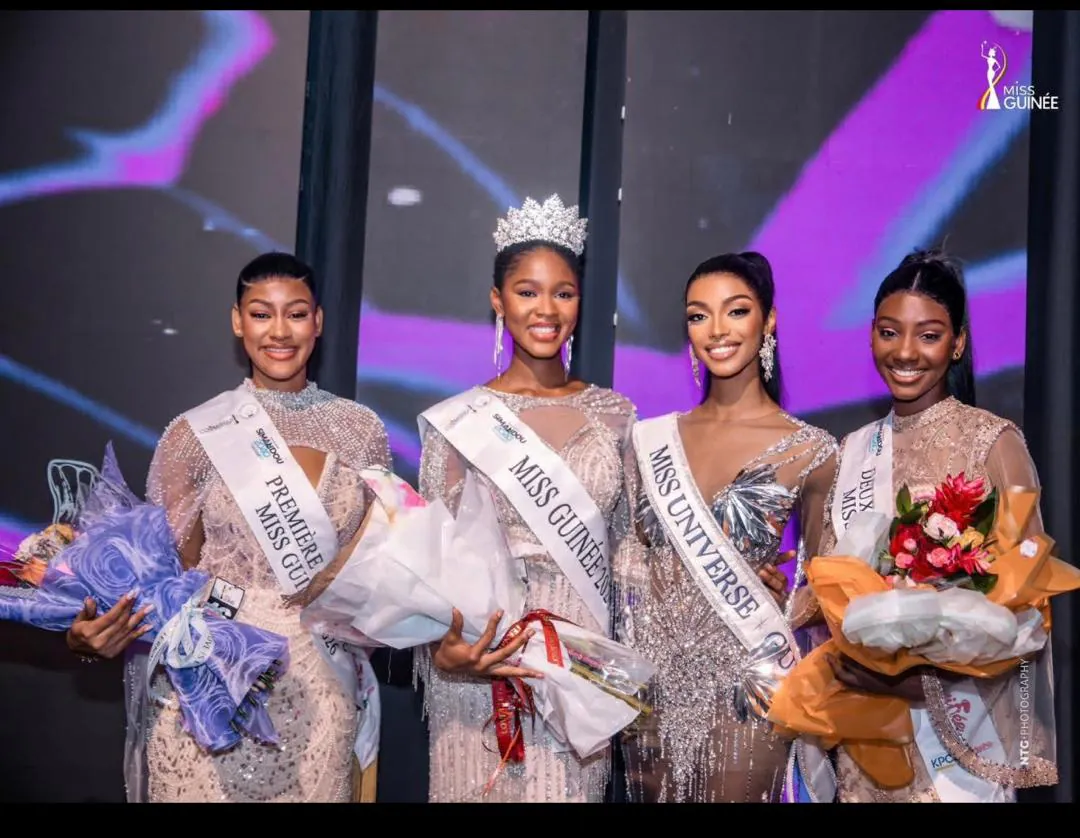
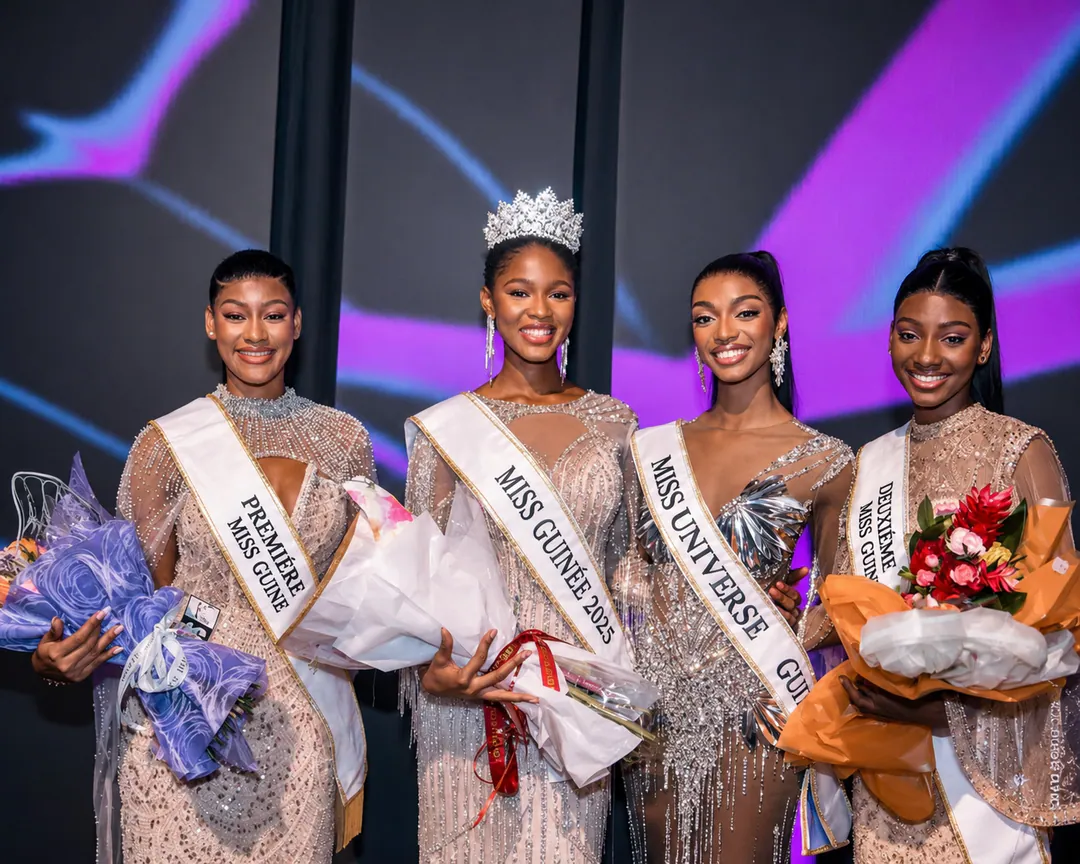
Photos dans la section Événements de l'accueil
Les trois images vont finalement aux cartes Mariages, Anniversaires et
Entreprises & réceptions, qui leur correspondent une à une — c'était la
lecture évidente, le dossier source portait d'ailleurs ce nom. La page
Services retrouve son état antérieur.

Deux photos remplacées par de meilleures versions :
- anniversaire : une vraie création de la boutique (roses, gypsophile,
  chocolats et coffret, photographiée en magasin) à la place d'une image
  de banque montrant un gâteau sans la moindre fleur ;
- Comité Miss Guinée : version plus nette, bouquets lisibles, et sans le
  filigrane du photographe présent sur la précédente.

Les cartes Événements passent de l'icône seule à une photo surmontée d'une
pastille, comme les tuiles de services. Vérifié : aucune image du site
n'apparaît deux fois, aucun débordement de 320 à 1440 px.

diff --git a/src/config.js b/src/config.js
@@ -67,9 +67,9 @@ export const PHOTOS = {
   comiteMissGuinee: responsivePhoto({
     nom: 'comite-miss-guinee',
     largeurs: [640, 1080],
-    alt: 'Les lauréates de Miss Guinée avec leurs bouquets Lizzirene Déco',
+    alt: 'Les lauréates de Miss Guinée 2025 avec leurs bouquets Lizzirene Déco',
     width: 1080,
-    height: 838,
+    height: 864,
     sizes: '(max-width: 900px) calc(100vw - 40px), 620px',
   }),
   clienteComblee: responsivePhoto({
@@ -149,34 +149,42 @@ export const SERVICE_THEME_PHOTOS = {
   }),
 }
 
-// Photos rattachées à une prestation précise, et à elle seule : chacune
-// n'illustre qu'un seul service, jamais un thème entier.
-const PHOTO_PRESTATION = (nom, alt, height) =>
+// Photos de la section Événements de l'accueil : une par carte, jamais
+// réutilisée ailleurs. Les cartes recadrent en 16/10, d'où des rapports
+// d'origine différents sans conséquence.
+const PHOTO_EVENEMENT = ({ nom, largeurs, alt, width, height }) =>
   responsivePhoto({
     nom,
-    largeurs: [480, 800, 1280],
+    largeurs,
     alt,
-    width: 1280,
+    width,
     height,
-    sizes: '(max-width: 720px) calc(100vw - 40px), (max-width: 1100px) 50vw, 33vw',
+    sizes:
+      '(max-width: 720px) calc(100vw - 40px), (max-width: 980px) 50vw, 33vw',
   })
 
-export const PHOTOS_PRESTATIONS = {
-  mariage: PHOTO_PRESTATION(
-    'prestation-mariage',
-    'Salle de réception de mariage dressée, tables fleuries et compositions pastel',
-    844,
-  ),
-  anniversaire: PHOTO_PRESTATION(
-    'prestation-anniversaire',
-    'Table d’anniversaire décorée avec gâteau, ballons et guirlande de fête',
-    853,
-  ),
-  conseilAmenagement: PHOTO_PRESTATION(
-    'prestation-conseil-amenagement',
-    'Bureau aménagé avec des compositions florales blanches et des plantes vertes',
-    720,
-  ),
+export const PHOTOS_EVENEMENTS = {
+  mariages: PHOTO_EVENEMENT({
+    nom: 'prestation-mariage',
+    largeurs: [480, 800, 1280],
+    alt: 'Salle de réception de mariage dressée, tables fleuries et compositions pastel',
+    width: 1280,
+    height: 844,
+  }),
+  anniversaires: PHOTO_EVENEMENT({
+    nom: 'prestation-anniversaire',
+    largeurs: [480, 810],
+    alt: "Bouquet d'anniversaire Lizzirene Déco : roses rouges, gypsophile, chocolats et coffret cadeau",
+    width: 810,
+    height: 1080,
+  }),
+  entreprises: PHOTO_EVENEMENT({
+    nom: 'prestation-conseil-amenagement',
+    largeurs: [480, 800, 1280],
+    alt: 'Bureau aménagé avec des compositions florales blanches et des plantes vertes',
+    width: 1280,
+    height: 720,
+  }),
 }
 
 export const HERO_IMAGES = [

diff --git a/src/components/Events.jsx b/src/components/Events.jsx
@@ -1,22 +1,26 @@
 import Reveal from './Reveal.jsx'
 import Icon from './Icon.jsx'
-import { waLink } from '../config.js'
+import Media from './Media.jsx'
+import { PHOTOS_EVENEMENTS, waLink } from '../config.js'
 
 const EVENTS = [
   {
     icon: 'gem',
     title: 'Mariages',
     text: "Décor de cérémonie, bouquet de la mariée, centres de table… un jour unique mérite un décor unique.",
+    photo: PHOTOS_EVENEMENTS.mariages,
   },
   {
     icon: 'cake',
     title: 'Anniversaires',
     text: "Bouquets d'anniversaire et mises en scène florales qui marquent les esprits.",
+    photo: PHOTOS_EVENEMENTS.anniversaires,
   },
   {
     icon: 'building',
     title: 'Entreprises & réceptions',
     text: 'Décoration de bureaux, inaugurations, séminaires et événements professionnels.',
+    photo: PHOTOS_EVENEMENTS.entreprises,
   },
 ]
 
@@ -42,11 +46,23 @@ function Events() {
               delay={i * 100}
             >
               <article className="event-card">
-                <span className="event-icon">
-                  <Icon name={e.icon} size={30} />
-                </span>
-                <h3>{e.title}</h3>
-                <p>{e.text}</p>
+                <div className="event-media">
+                  <Media
+                    src={e.photo.src}
+                    srcSet={e.photo.srcSet}
+                    sizes={e.photo.sizes}
+                    width={e.photo.width}
+                    height={e.photo.height}
+                    alt={e.photo.alt}
+                  />
+                  <span className="event-icon">
+                    <Icon name={e.icon} size={24} />
+                  </span>
+                </div>
+                <div className="event-body">
+                  <h3>{e.title}</h3>
+                  <p>{e.text}</p>
+                </div>
               </article>
             </Reveal>
           ))}

diff --git a/src/data/services.js b/src/data/services.js
@@ -1,6 +1,6 @@
 // Prestations de la boutique, regroupées en quatre thèmes pour tenir dans
 // le sous-menu « Nos Services ». Une prestation = une carte sur /services.
-import { PHOTOS_PRESTATIONS, SERVICE_THEME_PHOTOS } from '../config.js'
+import { SERVICE_THEME_PHOTOS } from '../config.js'
 
 // Chaque thème reçoit une photo optimisée pour l'accueil. Sur la page services,
 // seules les prestations qui correspondent vraiment aux images disponibles les
@@ -188,18 +188,11 @@ const SERVICES_BASE = [
   },
 ]
 
-// Une photo par prestation, et une seule : rien n'est réutilisé pour
-// combler un manque. Les prestations absentes d'ici gardent leur visuel
-// provisoire jusqu'à ce qu'une photo leur soit propre.
 const PHOTOS_PAR_PRESTATION = {
   'decoration-interieur': SERVICE_THEME_PHOTOS.decoration,
   'confection-bouquet': SERVICE_THEME_PHOTOS.creations,
+  mariage: SERVICE_THEME_PHOTOS.celebrations,
   hommage: SERVICE_THEME_PHOTOS.attentions,
-  // `mariage` empruntait la photo du thème Célébrations, déjà utilisée sur
-  // l'accueil ; il a désormais la sienne.
-  mariage: PHOTOS_PRESTATIONS.mariage,
-  anniversaire: PHOTOS_PRESTATIONS.anniversaire,
-  'conseil-amenagement-floral': PHOTOS_PRESTATIONS.conseilAmenagement,
 }
 
 export const SERVICES = SERVICES_BASE.map((service) => ({

diff --git a/src/index.css b/src/index.css
@@ -4120,3 +4120,52 @@ a.service-card {
     font-size: 21px;
   }
 }
+
+/* --- Cartes Événements illustrées --- */
+.event-card {
+  padding: 0;
+  overflow: hidden;
+  display: flex;
+  flex-direction: column;
+}
+
+.event-media {
+  position: relative;
+}
+
+.event-media .media {
+  border-radius: 0;
+  aspect-ratio: 16 / 10;
+}
+
+.event-card:hover .media img {
+  transform: scale(1.05);
+}
+
+/* La pastille chevauche la photo, comme sur les tuiles de services */
+.event-card .event-icon {
+  position: absolute;
+  left: 22px;
+  bottom: -24px;
+  width: 52px;
+  height: 52px;
+  margin-bottom: 0;
+  border-radius: 16px;
+  background: var(--white);
+  color: var(--primary-dark);
+  box-shadow: var(--shadow-soft);
+}
+
+.event-body {
+  padding: 40px 28px 30px;
+  display: flex;
+  flex-direction: column;
+  gap: 10px;
+  flex: 1;
+}
+
+@media (max-width: 720px) {
+  .event-body {
+    padding: 38px 22px 26px;
+  }
+}
